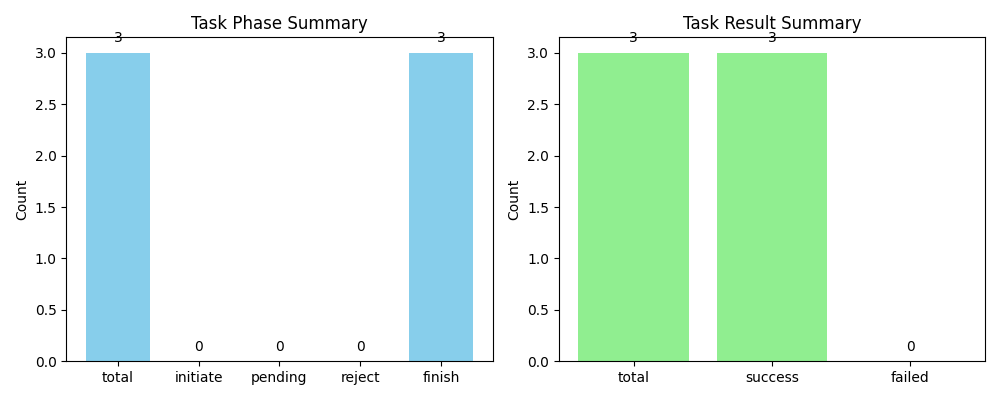
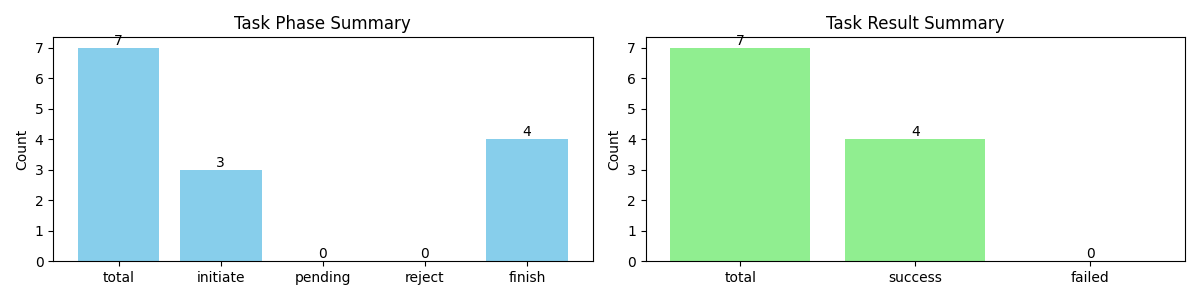
251231-130800 Final Release Version, all feature verified match with demand. Pending issue with tcp_async connection, this need optimization, will impact the stability for presentation.

Changed region(s): [[0.0, 0.03, 0.992, 0.96]]

diff --git a/backend/routes/task.py b/backend/routes/task.py
@@ -2,7 +2,7 @@ import matplotlib
 matplotlib.use("Agg")
 import matplotlib.pyplot as plt
 import base64
-
+from threading import Lock, RLock
 import re, os, time
 import json
 from datetime import datetime
@@ -92,8 +92,13 @@ class Task():
         self.tasklist = []
         self.devicelist =[]
         self.save_dir = STATIC_DIR
+        self._locks ={}
         
-        
+    
+    def _get_task_lock(self, task_id: str) -> RLock:
+        if task_id not in self._locks:
+            self._locks[task_id] = RLock()
+        return self._locks[task_id]
         
     def __load_device__(self):
         try:
@@ -148,27 +153,34 @@ class Task():
         return filepath, task
     
     def task_update_phase(self, task_id, new_tashphase: TaskPhase):
-        for task in self.tasklist:
-            if task["task_id"] == task_id:
-                _, current_result = decode_result(task["result"])
-                task['result'] = encode_result(new_tashphase, current_result)
-                taskfile = os.path.join(TASK_DIR, f"{task_id}.json")
-                with open(taskfile, "w") as f:
-                    json.dump(task, taskfile, indent=2)
-                    print("[Dispatch] task phase updated")
-                break
+        lock = self._get_task_lock(task_id)
+        with lock:
+            for task in self.tasklist:
+                if task["task_id"] == task_id:
+                    _, current_result = decode_result(task["result"])
+                    task['result'] = encode_result(new_tashphase, current_result)
+                    taskfile = os.path.join(TASK_DIR, f"{task_id}.json")
+                    print(f'[TASK] update task file {taskfile}')
+                    with open(taskfile, "w") as f:
+                        json.dump(task, f, indent=2)
+                        print("[Dispatch] task phase updated")
+                    break
         return None
     
     def task_update_result(self, task_id, new_result: TaskResult):
-        for task in self.tasklist:
-            if task["task_id"] == task_id:
-                current_phase, _ = decode_result(task["result"])
-                task["result"] = encode_result(current_phase.FINISHED, new_result)
-                taskfile = os.path.join(TASK_DIR, f"{task_id}.json")
-                with open(taskfile, "w") as f:
-                    json.dump(task, taskfile, indent=2)
-                    print("[Dispatch] task result updated")
-                break
+        lock = self._get_task_lock(task_id)
+        with lock:
+            for task in self.tasklist:
+                if task["task_id"] == task_id:
+                    current_phase, _ = decode_result(task["result"])
+                    task["result"] = encode_result(current_phase.FINISHED, new_result)
+                    taskfile = os.path.join(TASK_DIR, f"{task_id}.json")
+                    print(f'[TASK] update task file {taskfile}')
+
+                    with open(taskfile, "w") as f:
+                        json.dump(task, f, indent=2)
+                        print("[Dispatch] task result updated")
+                    break
         return None
                 
                 
@@ -271,8 +283,8 @@ class Task():
                 history_tasks.append(
                     {
                         "task_id":task["task_id"],
-                        "phase":str(phase_enum),
-                        "result":str(result_enum)
+                        "phase":phase_enum.name,
+                        "result":result_enum.name
                     }
                 )
         return json.dumps(history_tasks)

diff --git a/backend/routes/devices.py b/backend/routes/devices.py
@@ -1,5 +1,5 @@
 import json
-import os
+import os,re
 from flask import Blueprint, jsonify, request
 from routes.base_value import DEVICES_FILE
 from routes.messagebus import bus
@@ -28,15 +28,26 @@ def save_devices(devices):
 
 
 
-def update_device_partition(client_id, ota_result):
-    device_info = load_devices
+
+
+def handle_tcp_task_update_partition(payload):
+    task_id = payload.get("task_id")
+    client_id = re.split("_", task_id)[-1] 
+    result = payload.get("status")
+    #print(f"{client_id} update partition with result {result}")
+    device_info = load_devices()
     for d in device_info:
         if d["client_id"] == client_id:
-            if ota_result == "success":
+            if result == "success":
+                #print(f"condition ready to change ")
                 d["partition"] = "B" if d["partition"] =="A" else "A"
+                #print(f"{d} partition changed")
+                save_devices(device_info)
+                bus.publish("device.update", {"type": "device", "devices": "updated"})
             break
+    #print("-=====info front update====----")
 
-                
+
 
 def update_device_connection(client_id, connect_state):
     device_info = load_devices
@@ -196,6 +207,9 @@ def handle_device_update(payload):
             break
 
 
+
+    
+
 # need use in app for initialization
 def init_device_subscription():
     bus.subscribe("websock.device_create", handle_device_create)
@@ -203,4 +217,5 @@ def init_device_subscription():
     bus.subscribe("websock.device_edit", handle_device_edit)
     bus.subscribe("websock.device_query", handle_device_query)
     bus.subscribe("tcp.device_update", handle_device_update)
+    bus.subscribe("tcp.update_task", handle_tcp_task_update_partition)
         

diff --git a/backend/routes/dispatch.py b/backend/routes/dispatch.py
@@ -59,19 +59,18 @@ def handle_task_summary(data):
     #print(f"[Dispatch] return png path to front: {png}")
     
 
-def handle_tcp_task_update(payload):
-    phase_str , result_str = payload.get("result")
-    Task.task_update_phase(phase_str)
-    Task.task_update_result(result_str)
     #print("[Dispatch] update the task result, front can check by click the result check :: ")
 
 def handle_task_ack_update(payload):
     # [TCP_Async] Rx task_ack from GW {'msg_type': 'ota_task_ack', 'task_id': '20251231_110325_758', 'status': 'success', 'version': 'v2.3.0'}
     task_id = payload.get("task_id")
-    client_id = re.split("_", task_id)[-1] 
+    if not task_id:
+        print("No valid task_id", payload)
+        return
     #update task result and phase
-    task_mgmt.task_update_phase(task_id, TaskPhase.FINISHED)
-    task_mgmt.task_update_result(task_id, TaskResult.SUCCESS)
+    update_task=task_mgmt.task_update_phase(task_id, TaskPhase.FINISHED)
+    update_task=task_mgmt.task_update_result(task_id, TaskResult.SUCCESS)
+    
 
 
 # this init function use be import to app.py for initialization
@@ -79,7 +78,6 @@ def init_dispatch_subscription():
     bus.subscribe("websock.task_push", handle_push_task)
     bus.subscribe("websock.task_history", handle_task_history)
     bus.subscribe("websock.task_summary", handle_task_summary)
-    bus.subscribe("tcp.update_task", handle_tcp_task_update)
     bus.subscribe("tcp.update_task", handle_task_ack_update)
     
     

diff --git a/backend/routes/messagebus.py b/backend/routes/messagebus.py
@@ -52,7 +52,7 @@ class MessageBus:
             if handlers:
                 #  create payload to async thread pool
                 for handler in handlers:
-                    print("[Msg_BUS]", handler)
+                    #print("[Msg_BUS]", handler)
                     self.executor.submit(self._safe_invoke, handler, payload)
                     #print(self.messages)
             else:
@@ -64,8 +64,8 @@ class MessageBus:
 
     def _safe_invoke(self, handler, payload):
         try:
-            print("[Msg_BUS]",handler)
-            print("[Msg_BUS]",payload)
+            #print("[Msg_BUS]",handler)
+            #print("[Msg_BUS]",payload)
             handler(payload)
         except Exception as e:
             print(f"[MsgBus] handler error: {e}")
